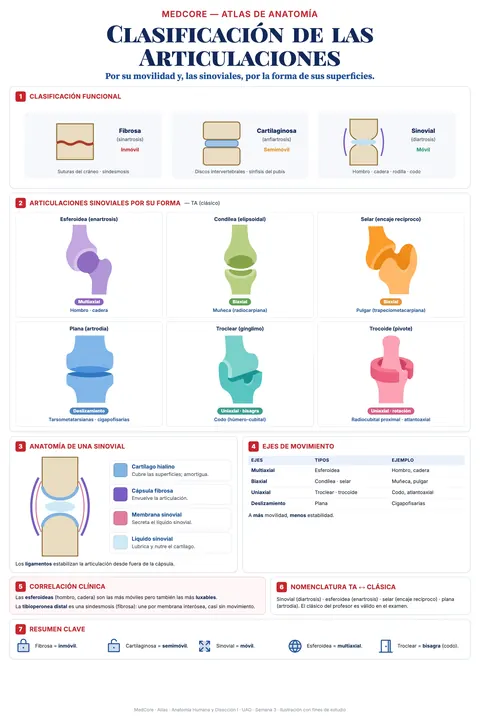
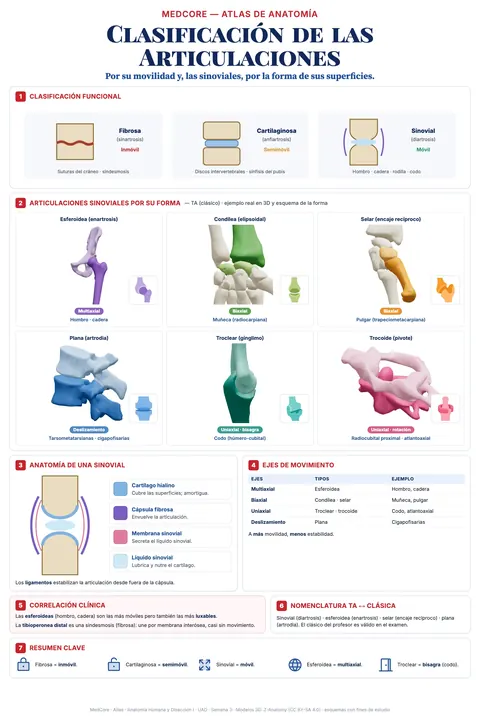
feat(atlas): clasificación de articulaciones con ejemplos reales en 3D
Las seis sinoviales por su forma muestran ahora su ejemplo real renderizado
de Z-Anatomy (cadera, radiocarpiana, trapeciometacarpiana, cigapofisaria
L1–L2, húmero-cubital y atlantoaxial), con el esquema de la forma como
recuadro. render-atlas.html: opción joint/jr para centrar la cámara en el
contacto entre dos huesos.

diff --git a/docs/atlas-posters/membrana/src/anat-artrologia.html b/docs/atlas-posters/membrana/src/anat-artrologia.html
@@ -1,7 +1,9 @@
 <!DOCTYPE html><html lang="es"><head><meta charset="utf-8"><link rel="stylesheet" href="membrana.css">
 <style>
 .six { display: grid; grid-template-columns: repeat(3, 1fr); gap: 8px; }
-.six .mini img { height: 150px; max-width: 100%; object-fit: contain; display: block; margin: 4px auto 6px; }
+.six .fig { position: relative; height: 170px; margin: 4px 0 6px; }
+.six .fig img.r { height: 170px; max-width: 100%; object-fit: contain; display: block; margin: 0 auto; }
+.six .fig img.s { position: absolute; right: 2px; bottom: 0; width: 62px; height: 62px; object-fit: contain; background: #fff; border: 1px solid #dfe3eb; border-radius: 6px; padding: 3px; }
 .six .ax { display: inline-block; font-size: 9.5px; font-weight: 800; color: #fff; border-radius: 9px; padding: 1px 8px; margin: 0 0 4px; }
 .six .ex { font-size: 10px; color: var(--blue); font-weight: 600; margin: 0; }
 </style>
@@ -50,14 +52,14 @@
 </section>
 
 <section class="panel">
-  <div class="ph"><span class="n">2</span>Articulaciones sinoviales por su forma <small>— TA (clásico)</small></div>
+  <div class="ph"><span class="n">2</span>Articulaciones sinoviales por su forma <small>— TA (clásico) · ejemplo real en 3D y esquema de la forma</small></div>
   <div class="six">
-    <div class="mini"><p class="t">Esferoidea (enartrosis)</p><img src="{{img:ana/art-esf.png}}"><span class="ax" style="background:#8a63c0">Multiaxial</span><p class="ex">Hombro · cadera</p></div>
-    <div class="mini"><p class="t">Condílea (elipsoidal)</p><img src="{{img:ana/art-cond.png}}"><span class="ax" style="background:#5ba24f">Biaxial</span><p class="ex">Muñeca (radiocarpiana)</p></div>
-    <div class="mini"><p class="t">Selar (encaje recíproco)</p><img src="{{img:ana/art-selar.png}}"><span class="ax" style="background:#e8912e">Biaxial</span><p class="ex">Pulgar (trapeciometacarpiana)</p></div>
-    <div class="mini"><p class="t">Plana (artrodia)</p><img src="{{img:ana/art-plana.png}}"><span class="ax" style="background:#4f86c6">Deslizamiento</span><p class="ex">Tarsometatarsianas · cigapofisarias</p></div>
-    <div class="mini"><p class="t">Troclear (gínglimo)</p><img src="{{img:ana/art-troc.png}}"><span class="ax" style="background:#3a9d8f">Uniaxial · bisagra</span><p class="ex">Codo (húmero-cubital)</p></div>
-    <div class="mini"><p class="t">Trocoide (pivote)</p><img src="{{img:ana/art-trocoide.png}}"><span class="ax" style="background:#d85c86">Uniaxial · rotación</span><p class="ex">Radiocubital proximal · atlantoaxial</p></div>
+    <div class="mini"><p class="t">Esferoidea (enartrosis)</p><div class="fig"><img class="r" src="{{img:ana3d/art-esf.png}}"><img class="s" src="{{img:ana/art-esf.png}}"></div><span class="ax" style="background:#8a63c0">Multiaxial</span><p class="ex">Hombro · cadera</p></div>
+    <div class="mini"><p class="t">Condílea (elipsoidal)</p><div class="fig"><img class="r" src="{{img:ana3d/art-cond.png}}"><img class="s" src="{{img:ana/art-cond.png}}"></div><span class="ax" style="background:#5ba24f">Biaxial</span><p class="ex">Muñeca (radiocarpiana)</p></div>
+    <div class="mini"><p class="t">Selar (encaje recíproco)</p><div class="fig"><img class="r" src="{{img:ana3d/art-sel.png}}"><img class="s" src="{{img:ana/art-selar.png}}"></div><span class="ax" style="background:#e8912e">Biaxial</span><p class="ex">Pulgar (trapeciometacarpiana)</p></div>
+    <div class="mini"><p class="t">Plana (artrodia)</p><div class="fig"><img class="r" src="{{img:ana3d/art-plana.png}}"><img class="s" src="{{img:ana/art-plana.png}}"></div><span class="ax" style="background:#4f86c6">Deslizamiento</span><p class="ex">Tarsometatarsianas · cigapofisarias</p></div>
+    <div class="mini"><p class="t">Troclear (gínglimo)</p><div class="fig"><img class="r" src="{{img:ana3d/art-troc.png}}"><img class="s" src="{{img:ana/art-troc.png}}"></div><span class="ax" style="background:#3a9d8f">Uniaxial · bisagra</span><p class="ex">Codo (húmero-cubital)</p></div>
+    <div class="mini"><p class="t">Trocoide (pivote)</p><div class="fig"><img class="r" src="{{img:ana3d/art-trocoide.png}}"><img class="s" src="{{img:ana/art-trocoide.png}}"></div><span class="ax" style="background:#d85c86">Uniaxial · rotación</span><p class="ex">Radiocubital proximal · atlantoaxial</p></div>
   </div>
 </section>
 
@@ -119,5 +121,5 @@
   </div>
 </section>
 
-<p class="foot">MedCore · Atlas · Anatomía Humana y Disección I · UAD · Semana 3 · Ilustración con fines de estudio</p>
+<p class="foot">MedCore · Atlas · Anatomía Humana y Disección I · UAD · Semana 3 · Modelos 3D: Z-Anatomy (CC BY-SA 4.0) · esquemas con fines de estudio</p>
 </div></body></html>

diff --git a/render-atlas.html b/render-atlas.html
@@ -84,7 +84,18 @@ loader.load('/models/' + q.get('model'), (g) => {
   const focus = q.get('focus') ? new RegExp(q.get('focus'), 'i') : null
   const fb = new THREE.Box3(); if (focus) scene.traverse(o => { if (o.isMesh && o.visible && focus.test(nameOf(o))) fb.expandByObject(o) })
   const b = focus && !fb.isEmpty() ? fb : box
-  const c = b.getCenter(new THREE.Vector3()), s = b.getSize(new THREE.Vector3())
+  let c = b.getCenter(new THREE.Vector3()), s = b.getSize(new THREE.Vector3())
+  // joint=A~B: centra en el punto de contacto entre las mallas A y B; jr = radio relativo al tamaño de A
+  if (q.get('joint')) {
+    const [ra, rb] = q.get('joint').split('~').map(x => new RegExp(x, 'i'))
+    const samp = (re) => { const out = []; scene.traverse(o => { if (!o.isMesh || !o.visible || !re.test(nameOf(o))) return
+      const pos = o.geometry.attributes.position, st = Math.max(1, Math.floor(pos.count / 2500))
+      for (let i = 0; i < pos.count; i += st) out.push(new THREE.Vector3().fromBufferAttribute(pos, i).applyMatrix4(o.matrixWorld)) }); return out }
+    const A = samp(ra), B = samp(rb); let best = Infinity, pa, pb
+    for (const u of A) for (const v of B) { const d = u.distanceToSquared(v); if (d < best) { best = d; pa = u; pb = v } }
+    const ba = new THREE.Box3().setFromPoints(A).getSize(new THREE.Vector3())
+    c = pa.clone().add(pb).multiplyScalar(0.5); const R = Math.max(ba.x, ba.y, ba.z) * +(q.get('jr') || 0.3); s = new THREE.Vector3(R, R, R)
+  }
   // clip=1: corte sagital en la línea media del foco (se ve la cara de corte desde +x)
   if (q.get('clip')) {
     renderer.localClippingEnabled = true
